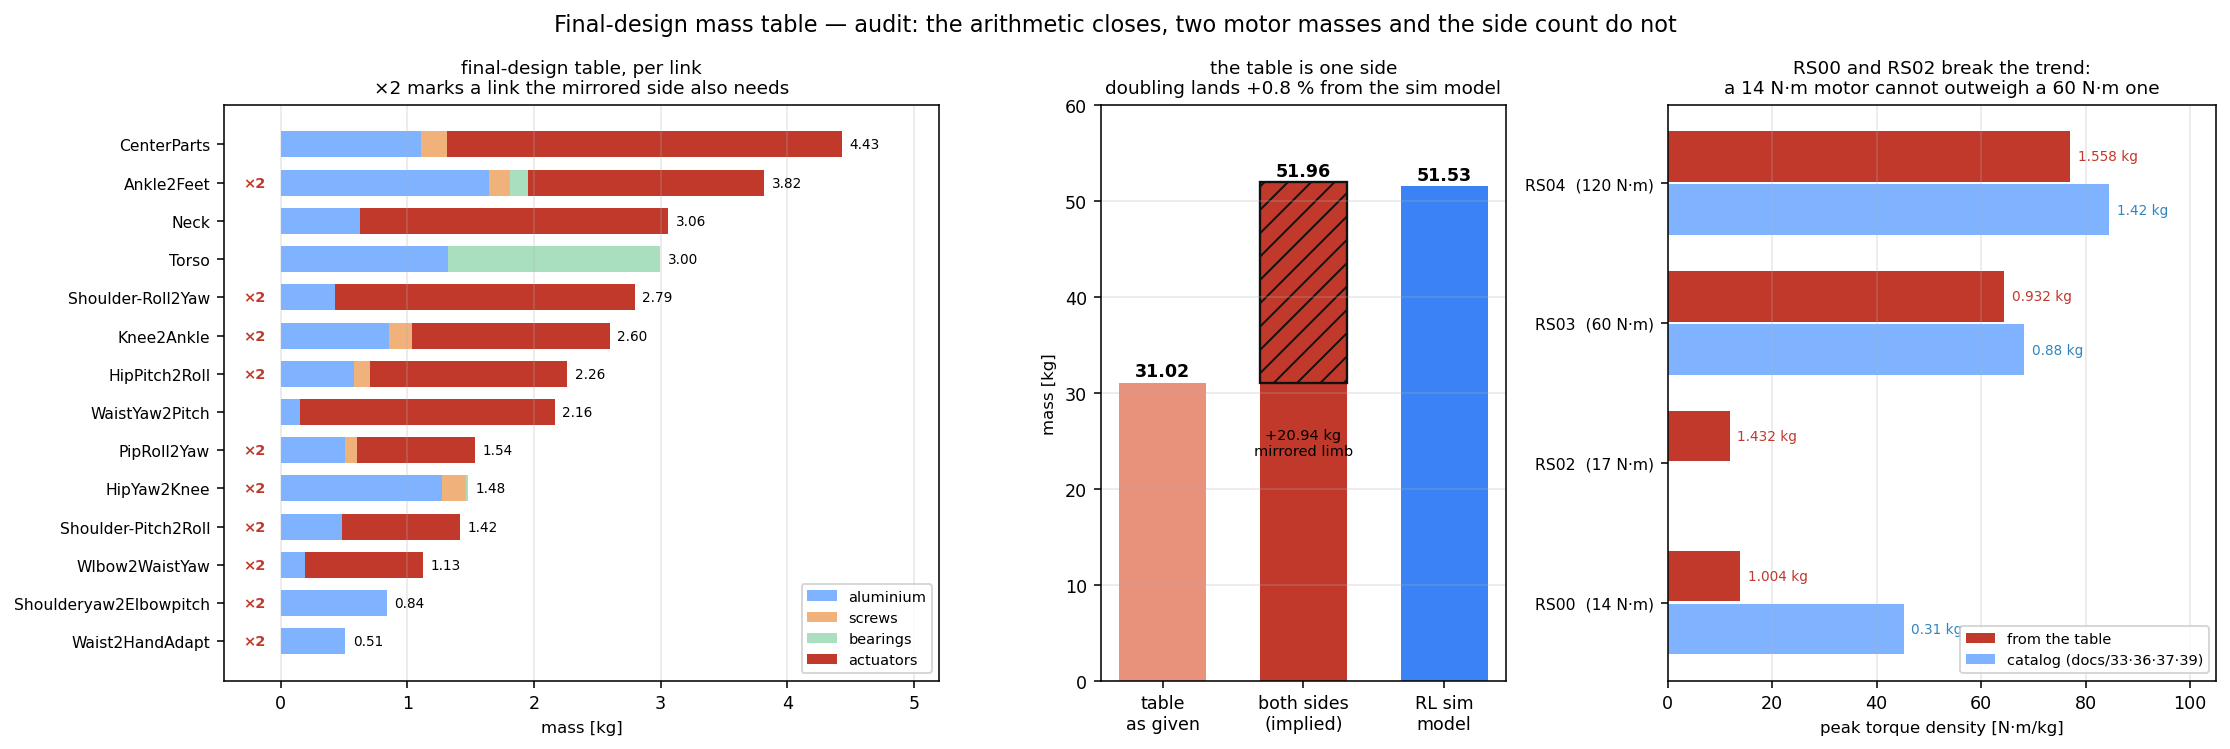
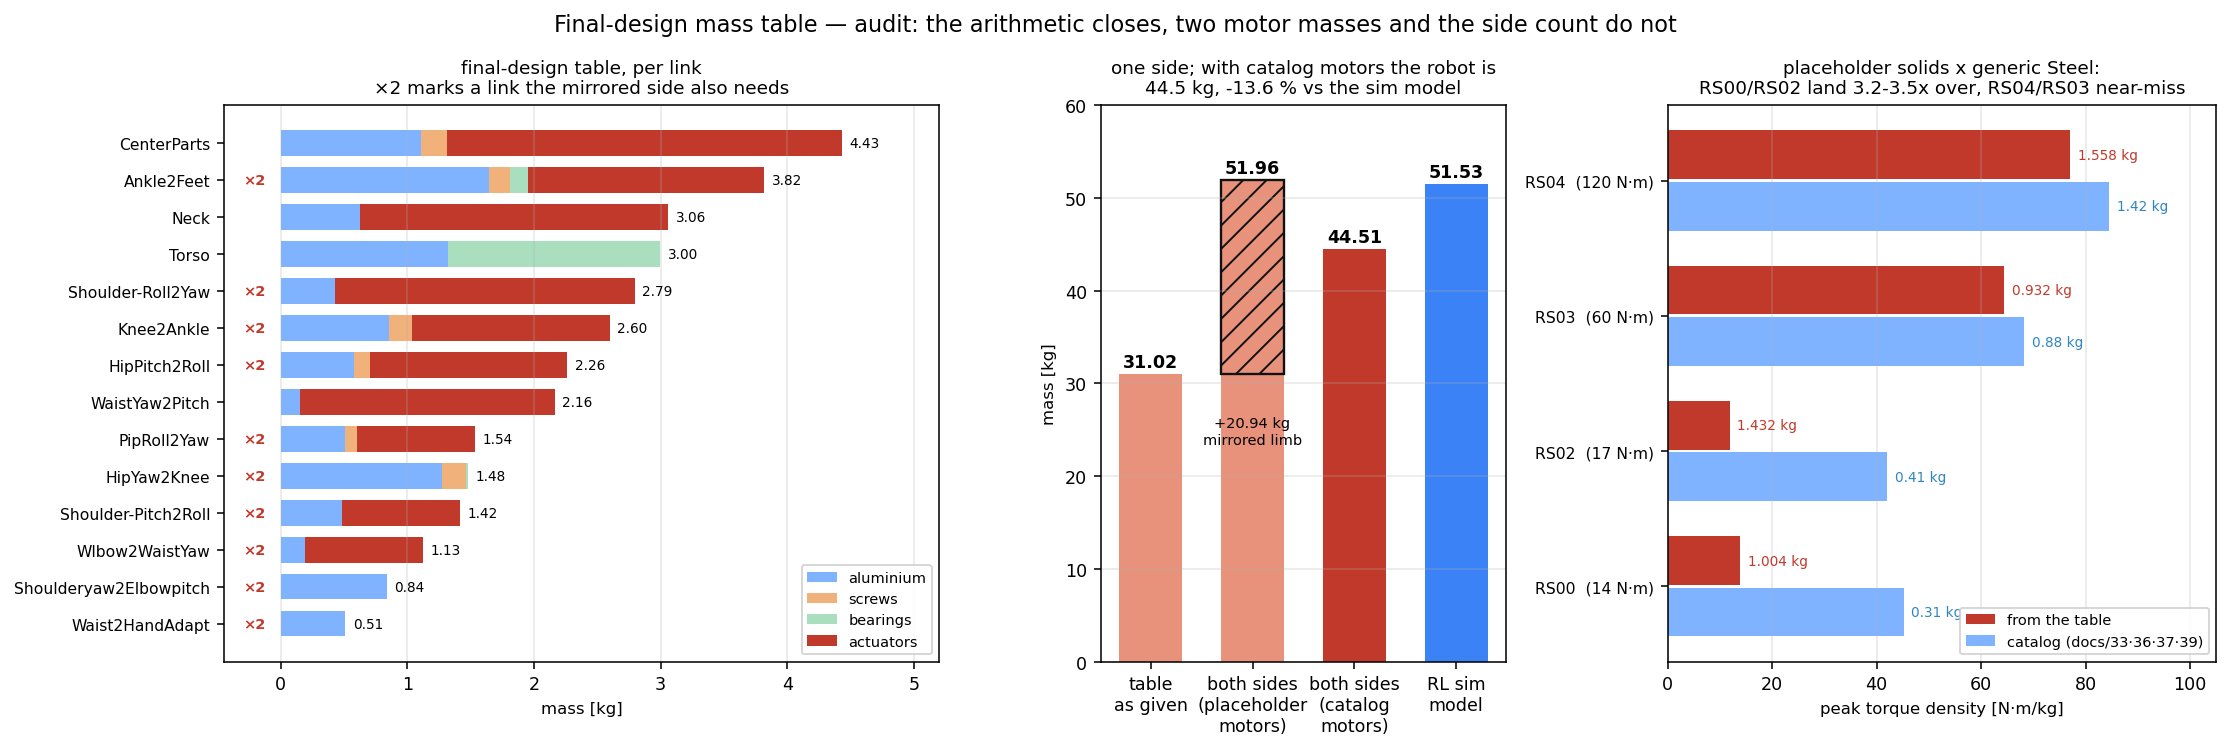
Fusion measurement closes the motor-mass question: all seven measured occurrences are placeholder solids in generic Steel with catalog-exact bounding boxes, so every motor mass in the table is volume x wrong density - catalog substitution puts the robot at 44.51 kg, 13.6 percent under the sim model,

diff --git a/tools/fea/mass_table_review.py b/tools/fea/mass_table_review.py
@@ -40,8 +40,13 @@ BREAK = {
 # motor: (peak N.m, mass in the table, catalog mass, catalog source)
 MOTOR = {'RS04': (120.0, 1.558, 1.42, 'docs/33 · 84.5 N·m/kg'),
          'RS03': (60.0, 0.932, 0.88, 'docs/37·39·41'),
-         'RS02': (17.0, 1.432, None, 'docs/36 “소형”, 카탈로그 질량 미기록'),
+         'RS02': (17.0, 1.432, 0.405, 'docs/39 L29 · RS01/RS02 380-405 g'),
          'RS00': (14.0, 1.004, 0.31, 'docs/36·39')}
+# Fusion360 measurement (2026-08-20, docs/83 §1): every motor occurrence is a single
+# placeholder solid in generic Steel, bbox matching the catalog envelope - so the table's
+# motor masses are volume x wrong density, and the catalog values replace ALL of them,
+# not just the two that looked absurd.
+CORRECTED_FULL = 44.509
 COUNT = {'RS04': 4, 'RS03': 6, 'RS02': 2, 'RS00': 3}
 # which links are one-of-a-pair
 PER_SIDE = {'HipPitch2Roll', 'PipRoll2Yaw', 'HipYaw2Knee', 'Knee2Ankle', 'Ankle2Feet',
@@ -110,18 +115,20 @@ def main():
     ax[0].grid(alpha=0.3, axis='x')
 
     # (b) what the table covers vs a complete machine
-    ax[1].bar(['table\nas given', 'both sides\n(implied)', 'RL sim\nmodel'],
-              [tot, full, RL_TOTAL], color=['#e8927c', '#c0392b', '#3b82f6'], width=0.62)
-    ax[1].bar(['both sides\n(implied)'], [side + MIRRORED_MOTORS], bottom=[tot],
-              color='none', edgecolor='#111', lw=1.2, hatch='//', width=0.62)
-    for i, v in enumerate([tot, full, RL_TOTAL]):
+    ax[1].bar(['table\nas given', 'both sides\n(placeholder\nmotors)',
+               'both sides\n(catalog\nmotors)', 'RL sim\nmodel'],
+              [tot, full, CORRECTED_FULL, RL_TOTAL],
+              color=['#e8927c', '#e8927c', '#c0392b', '#3b82f6'], width=0.62)
+    ax[1].bar(['both sides\n(placeholder\nmotors)'], [side + MIRRORED_MOTORS],
+              bottom=[tot], color='none', edgecolor='#111', lw=1.2, hatch='//', width=0.62)
+    for i, v in enumerate([tot, full, CORRECTED_FULL, RL_TOTAL]):
         ax[1].annotate(f'{v:.2f}', (i, v + 0.7), ha='center', fontsize=9, weight='bold')
     ax[1].annotate(f'+{side + MIRRORED_MOTORS:.2f} kg\nmirrored limb', (1, tot / 2 + 8),
                    ha='center', fontsize=7.5)
     ax[1].set_ylabel('mass [kg]', fontsize=8.5)
     ax[1].set_ylim(0, 60)
-    ax[1].set_title('the table is one side\n'
-                    f'doubling lands {100 * (full - RL_TOTAL) / RL_TOTAL:+.1f} % from the sim model',
+    ax[1].set_title('one side; with catalog motors the robot is\n'
+                    f'{CORRECTED_FULL:.1f} kg, {100 * (CORRECTED_FULL - RL_TOTAL) / RL_TOTAL:+.1f} % vs the sim model',
                     fontsize=9.5)
     ax[1].grid(alpha=0.3, axis='y')
 
@@ -143,8 +150,8 @@ def main():
     ax[2].invert_yaxis()
     ax[2].set_xlim(0, 105)
     ax[2].set_xlabel('peak torque density [N·m/kg]', fontsize=8.5)
-    ax[2].set_title('RS00 and RS02 break the trend:\n'
-                    'a 14 N·m motor cannot outweigh a 60 N·m one', fontsize=9.5)
+    ax[2].set_title('placeholder solids x generic Steel:\n'
+                    'RS00/RS02 land 3.2-3.5x over, RS04/RS03 near-miss', fontsize=9.5)
     ax[2].legend(fontsize=7.5, loc='lower right')
     ax[2].grid(alpha=0.3, axis='x')
 

diff --git a/docs/82_final_design_mass_review.md b/docs/82_final_design_mass_review.md
@@ -7,6 +7,12 @@
 **4건 유지 · 2건 반증**. 반증된 것은 §4(발 귀속, 자체 정정 완료)와 §6(독립 대조 주장 —
 사실은 같은 파일을 두 번 읽은 것). §2의 "51.96 kg" 방증도 순환이라 철회했다.
 
+★★**2026-08-20 Fusion360 실측 반영**([[83_fusion360_measurement_spec]] §0·§1 완료):
+리비전 동일 확정(앵커 3종 일치, Ankle2Feet 나사는 45+루즈 2 = 47). **§3의 (a) 질량 오류로
+사실상 확정** — 모터 7종 실측 전부 단일 자리표시자 솔리드 + 범용 "Steel", 바운딩박스는
+카탈로그 외형과 정확히 일치(라벨·배치는 맞음). §2·§3을 이에 맞춰 갱신했다. §2~§7 측정은
+미착수.
+
 ![mass table review](img/mass_table_review.png)
 
 > 왼쪽: 링크별 질량을 분류로 쌓은 것(빨강 ×2 = 미러 측에도 필요한 링크).
@@ -47,10 +53,13 @@
 고치면 **46.07 kg**(−10.6 %)이 된다. 또 `pygmalion.xml`이 같은 CAD에서 나왔을 가능성을
 배제하지 못해 "독립"도 성립하지 않는다.
 
-★**결론은 유지, 숫자는 밴드로**: `"편측+중앙 31.02 kg / 좌우 완성 = 44.5 ~ 52 kg
-(RS00·RS02 질량 확정 후 결정)"`. "31.02 kg = 로봇 총질량"만은 확실히 틀렸다.
+★**Fusion 실측으로 밴드가 닫혔다**: 모터가 전부 자리표시자로 확정됐으므로(§3) 카탈로그
+치환이 맞고, **좌우 완성 = 중앙 9.263 + 편측 16.758×2 + 미러 모터 1.730 = 44.51 kg**.
+심 모델 51.53 대비 **−13.6 %** — 다리는 −3.9 %로 근접하고 차이는 상체에 몰려 있다.
+노트 표기: `"편측+중앙 31.02(자리표시자 모터) / 카탈로그 모터 교정 시 26.02 / 좌우 완성
+≈ 44.5 kg (배터리 제외)"`.
 
-## §3 ★확정 2 — RS00·RS02 질량이 물리적으로 불가능하다
+## §3 ★확정 2 — 모터 질량은 전부 자리표시자다 (Fusion 실측으로 (a) 확정)
 
 | 모터 | peak | 표 kg | 카탈로그 kg | 차이 | 표 N·m/kg | 카탈로그 |
 |---|---|---|---|---|---|---|
@@ -59,26 +68,51 @@
 | RS02 | 17 | **1.432** | **0.380~0.405** | **+254 %** | **11.9** | 42.0 |
 | RS00 | 14 | **1.004** | **0.31** | **+224 %** | **13.9** | 45.2 |
 
-★**정정**: 초판은 RS02 카탈로그 질량을 "미기록"으로 썼다. **기록돼 있다** —
-[[39_ankle_qdd_uptorque_survey]] L29: RobStride RS01/RS02 = 17/6 N·m, **380–405 g**, Φ78.5,
-7.75:1. 채워 넣으면 RS02가 **+254 %로 RS00(+224 %)보다 더 나쁘다.**
+(RS02 카탈로그 출처: [[39_ankle_qdd_uptorque_survey]] L29 — RS01/RS02 = 17/6 N·m,
+380–405 g, Φ78.5, 7.75:1. 포락 밀도 논거: RS00 1.004 kg ÷ Φ57×51 = **7.71 g/cm³ = 통강철**.)
 
-★**가장 강한 논거는 토크밀도가 아니라 포락 밀도다**(검증이 찾음):
-RS00 공표 외형 **Φ57 × 51 mm**에 1.004 kg을 넣으려면 평균밀도 **7.71 g/cm³ = 통강철**이어야
-한다. RS02는 6.16 g/cm³. 같은 계산에서 RS04는 2.46, RS03은 1.89 — **정상**이다.
+### ★Fusion 실측 결과 (2026-08-20) — (a) 질량 오류, (b) 라벨은 정상
 
-### ⚠ 두 해석이 살아 있다 — 확정 전 사용자 확인 필요
+측정 7종(RS00×3 · RS02×2 · RS04-Hip_P · RS03-Ankle_A) **전부**:
+- **단일 솔리드 바디**, 재질 = 범용 **"Steel"**(특정 합금 미지정)
+- **바운딩박스가 카탈로그 외형과 정확히 일치**(RS00 Φ57×51, RS02 Φ78.5) → 라벨·배치는 맞다
+- → 표의 모터 질량 = **자리표시자 체적 × Steel 밀도**의 산출값. RS04/RS03은 형상 비율상
+  우연히 카탈로그에 근접했고, RS00/RS02는 짧고 굵어 크게 벗어났다.
 
-- **(a) 질량이 틀렸다** — CAD 질량속성 누락. 그러면 목 = 0.622 + 0.310 + 0.405 = **1.337 kg**
-  (초판의 "약 1.7"은 산술 오류), WaistYaw2Pitch = 0.155 + 0.310 + 0.405 = 0.870,
-  전체 −5.9 kg. §2의 좌우 완성이 46 kg대로 내려간다.
-- **(b) 이름이 틀렸다** — 질량은 실제 조인트 모듈 값이고 라벨이 잘못됐다. **이쪽이 더
-  그럴듯하다**: 표대로면 `Waist_Pitch`가 RS00(peak 14 N·m)인데, 표의 허리 위 질량
-  **19.4 kg**(Torso+Neck+팔×2)이 COM 오프셋 150/200/300 mm에서 요구하는 정적 토크는
-  **28.6 / 38.1 / 57.2 N·m** — **peak의 2~4배**다. 바로 눕히지 않는 한 성립할 수 없다.
+⚠**초판 해석 철회**: "RS04 +9.7 %/RS03 +5.9 %는 케이블·어댑터로 설명되는 정상 범위"라고
+썼다. 실측 결과 이 둘도 자리표시자이므로 **+9.7/+5.9 %는 우연이지 실측이 아니다.**
+교정은 RS00/RS02만이 아니라 **네 모델 전부 카탈로그 치환**이 맞다.
 
-**(b)라면 하중 기준은 그대로이고, (a)라면 다리가 지는 페이로드가 바뀐다.** 1.004 kg 항목이
-실제로 무엇인지(맨 모터 / 감속기 포함 / 브래킷 포함) 확인 전에는 어느 쪽도 확정하지 말 것.
+⚠단서(실측 세션이 남긴 것): Material 밀도 수치 직접 조회는 실패(정황 판단), override 여부도
+확정 아님. RS04-Hip_P bbox 161.88 mm는 모터 지름치곤 커서 **브래킷이 한 솔리드로 합쳐졌을
+가능성**(미확인) — §2 측정 때 확인할 것.
+
+### 카탈로그 치환 교정표 (모터 4종 전부)
+
+| 링크 | 표 kg | 교정 kg | Δ |
+|---|---|---|---|
+| CenterParts | 4.429 | 4.153 | −0.276 |
+| HipPitch2Roll | 2.262 | 2.124 | −0.138 |
+| PipRoll2Yaw | 1.536 | 1.484 | −0.052 |
+| HipYaw2Knee | 1.476 | 1.476 | — |
+| Knee2Ankle | 2.598 | 2.460 | −0.138 |
+| Ankle2Feet | 3.818 | 3.714 | −0.104 |
+| Shoulder-Pitch2Roll | 1.418 | 1.366 | −0.052 |
+| **Shoulder-Roll2Yaw** | 2.794 | **1.715** | **−1.079** |
+| Shoulderyaw2Elbowpitch | 0.838 | 0.838 | — |
+| Wlbow2WaistYaw | 1.125 | 1.073 | −0.052 |
+| **WaistYaw2Pitch** | 2.163 | **0.775** | **−1.388** |
+| Waist2HandAdapt | 0.508 | 0.508 | — |
+| Torso | 2.998 | 2.998 | — |
+| **Neck** | 3.058 | **1.337** | **−1.721** |
+| **편측+중앙 합** | 31.021 | **26.021** | **−5.000** |
+
+### 잔존 질문 — Waist_Pitch 언더스펙은 교정 후에도 남는다
+
+교정된 허리 위 질량(Torso+Neck+팔×2) = **15.34 kg**. COM 오프셋 150/200/300 mm에서 정적
+토크 **22.6 / 30.1 / 45.1 N·m** — 표대로 RS00(peak 14)이면 **1.6~3.2배 초과**. 라벨이
+맞다고 실측됐으므로 이제 이것은 라벨 문제가 아니라 **설계 결정 사항**이다: Waist_Pitch에
+실제로 무엇을 쓸 것인가. (배터리를 얹으면 더 커진다.)
 
 ## §4 ★확정 3 — `Ankle2Feet`는 링크가 아니라 **2-RSU 기구 전체**다
 
@@ -185,9 +219,9 @@ FEA 지오메트리를 전부 재확인"이다.**
 
 ## §7 노트 확정 전 체크리스트
 
-1. ★ 총질량을 **"편측+중앙 31.02 / 좌우 완성 44.5~52 kg"** 로 — 정확한 값은 2번에 종속
-2. ★ **RS00·RS02 1.004/1.432 kg의 정체 확인** — 맨 모터인가, 모듈인가, 라벨이 틀렸나
-   (§3의 (a)/(b)). `Waist_Pitch`에 요구되는 28~57 N·m를 무엇이 내는지 함께 확인
+1. ★ 총질량을 **"편측+중앙 26.02(카탈로그 모터) / 좌우 완성 ≈ 44.5 kg (배터리 제외)"** 로
+2. ~~RS00·RS02 정체~~ → **완료**(자리표시자 확정). 남은 것: ★**Waist_Pitch 액추에이터
+   설계 결정**(요구 22.6~45.1 N·m vs RS00 14) · RS04-Hip_P 브래킷 병합 여부(§2에서)
 3. ★ **Ankle2Feet 행을 강체 기준으로 재편** — 이 그룹은 기구 전체다(발 ~0.9~1.2 / 정강이 ~2.6)
 4. ★ **현 CAD 재-export 후 6개 링크 FEA 지오메트리 재확인** — 표에 있는 나사 141개가
    캠페인 STEP에 없고, 알루미늄 차이가 양방향(+31 ~ −11 %)이다

diff --git a/docs/83_fusion360_measurement_spec.md b/docs/83_fusion360_measurement_spec.md
@@ -3,6 +3,15 @@
 **용도**: 이 문서를 Fusion360 MCP가 연결된 세션에 그대로 전달하면, 그 세션의 Claude가
 순서대로 실행할 수 있는 측정 지시서다. 결과는 각 항목의 JSON 형식으로 받아 오면 된다.
 
+★**진행 상황 (2026-08-20)**: **§0·§1 완료 · §2~§7 미착수.**
+- §0: 앵커 3종 일치 → **리비전 동일 확정** (Ankle2Feet 나사 = 45+루즈 2 = 47)
+- §1: 모터 7종 전부 단일 자리표시자 솔리드 + 범용 "Steel", bbox = 카탈로그 외형 →
+  **(a) 질량 오류 확정, (b) 라벨 정상**. 단서: 밀도 수치 직접 조회 실패(정황 판단),
+  override 여부 미확정, RS04-Hip_P bbox 161.88 mm는 브래킷 병합 의심(미확인 → §2에서).
+- 결과 반영: [[82_final_design_mass_review]] §2·§3 (교정 총질량 44.51 kg).
+- **Maido가 직접 답해야 하는 것**(CAD로 확인 불가): Waist_Pitch 실제 액추에이터(§1 추가질문),
+  §6 질문 3개(배터리 · 명칭 PipRoll2Yaw/Wlbow2WaistYaw/Ankle_A(1) · 미러 계획).
+
 **배경**: [[82_final_design_mass_review]]의 미결 6건과 [[81_rl_model_vs_cad_mass]]의
 심 모델 재구축에 필요한 값들. 캠페인이 가진 CAD는 `Huphy1.0_FullBody.step`(2026-08-14
 export)인데 사용자 질량표보다 **옛 리비전**(나사 141개 부재)이라, 현 Fusion 모델에서
